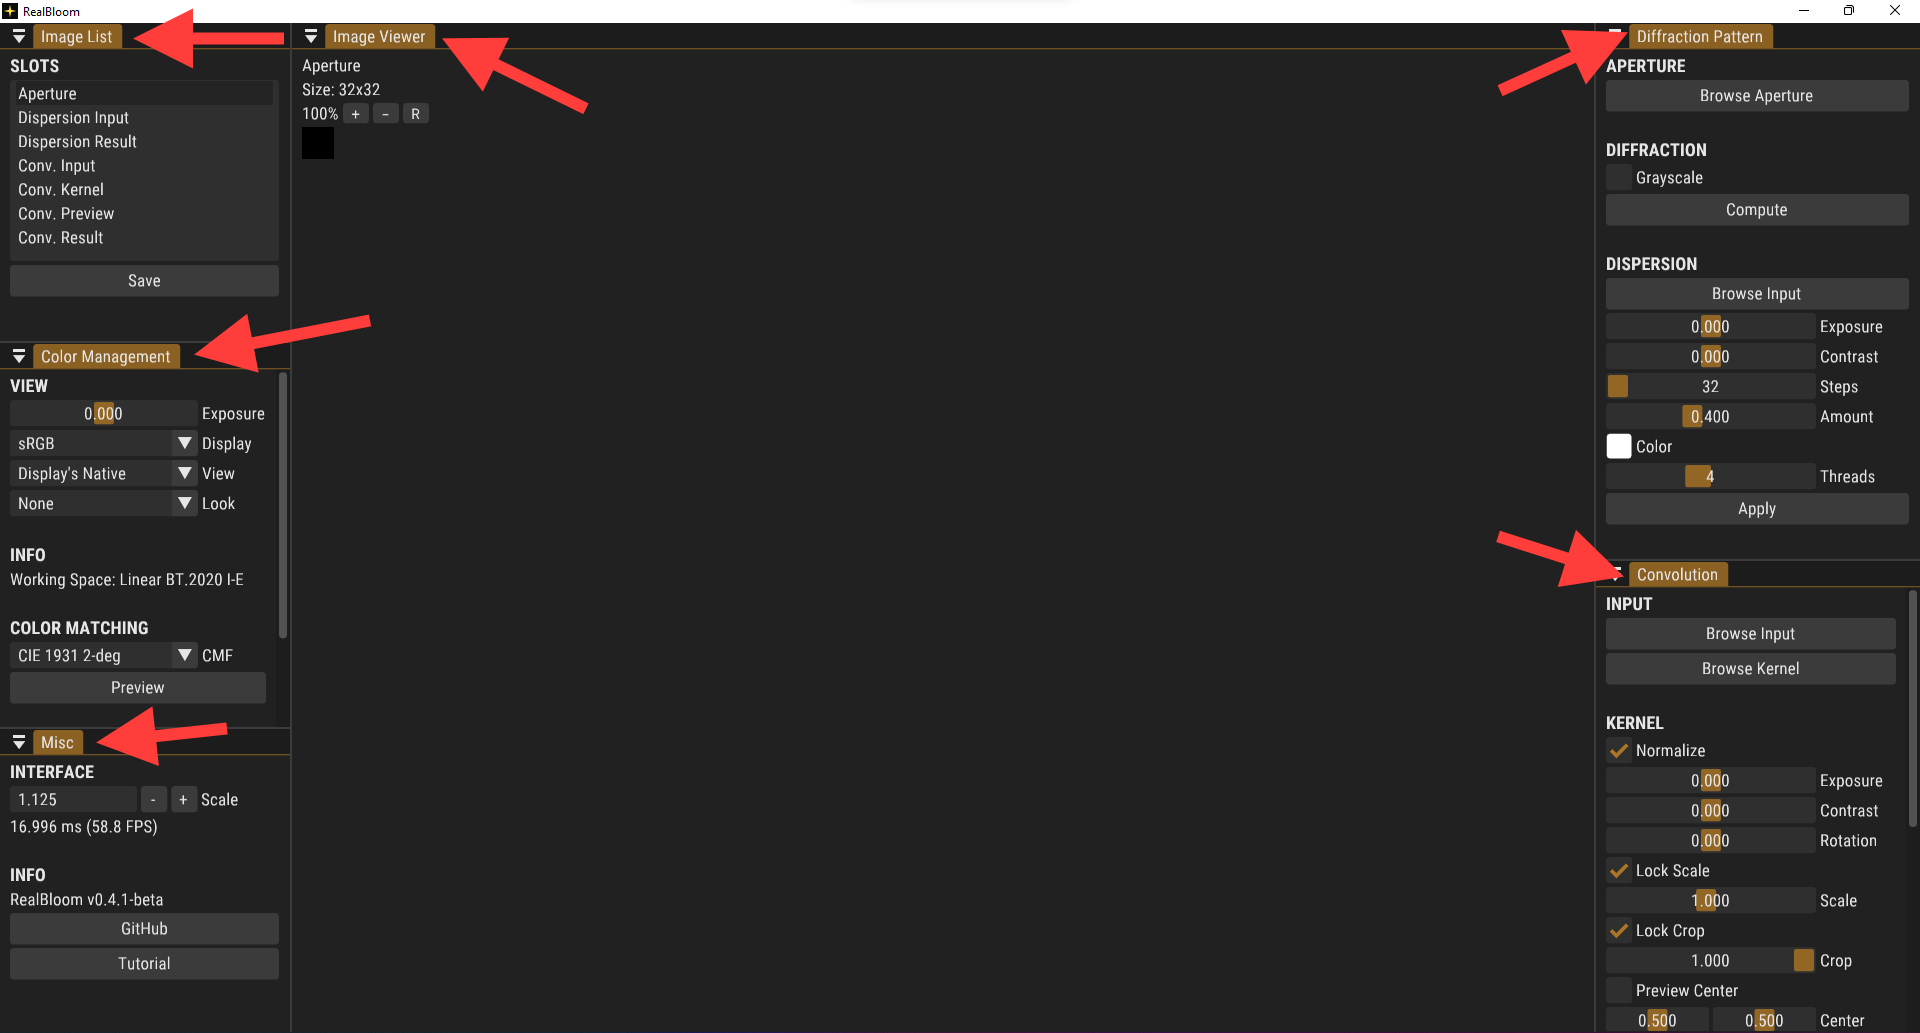
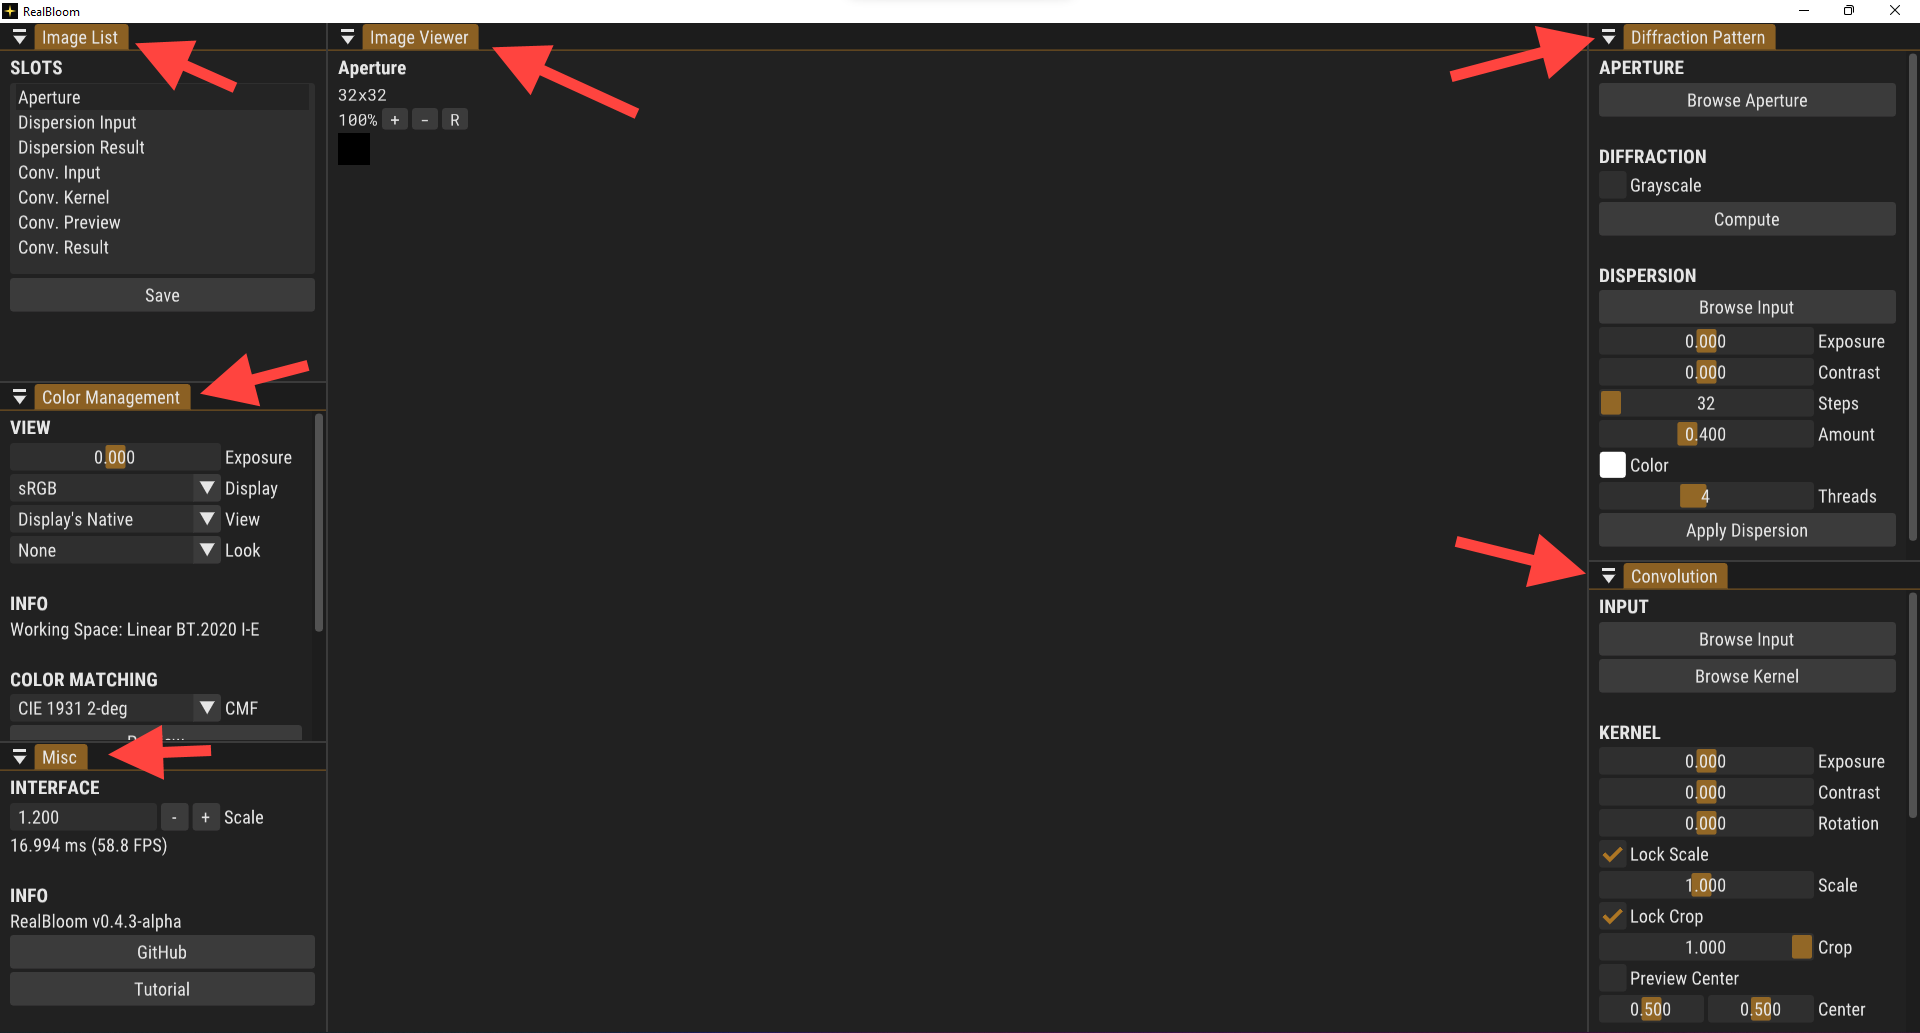
updated images, bug fix in Convolution and Dispersion: values lower than epsilon are not clamped anymore

Changed region(s): [[0.0, 0.0, 0.3438, 0.9913], [0.75, 0.031, 1.0, 1.0], [0.9062, 0.7125, 1.0, 1.0]]

diff --git a/RealBloomCPP/src/RealBloom/Convolution.cpp b/RealBloomCPP/src/RealBloom/Convolution.cpp
@@ -281,14 +281,17 @@ namespace RealBloom
                     croppedBuffer[redIndex + 1] /= maxV;
                     croppedBuffer[redIndex + 2] /= maxV;
 
-                    // Calculate contrast for the grayscale value
+                    // Calculate the grayscale value
                     float grayscale = rgbToGrayscale(croppedBuffer[redIndex + 0], croppedBuffer[redIndex + 1], croppedBuffer[redIndex + 2]);
-                    float mul = kernelExpMul * maxV * (contrastCurve(grayscale, kernelContrast) / fmaxf(grayscale, EPSILON));
 
                     // Apply contrast and de-normalize
-                    croppedBuffer[redIndex + 0] *= mul;
-                    croppedBuffer[redIndex + 1] *= mul;
-                    croppedBuffer[redIndex + 2] *= mul;
+                    if (grayscale > 0.0f)
+                    {
+                        float mul = kernelExpMul * maxV * (contrastCurve(grayscale, kernelContrast) / grayscale);
+                        croppedBuffer[redIndex + 0] *= mul;
+                        croppedBuffer[redIndex + 1] *= mul;
+                        croppedBuffer[redIndex + 2] *= mul;
+                    }
                 }
             }
         }

diff --git a/RealBloomCPP/src/RealBloom/Dispersion.cpp b/RealBloomCPP/src/RealBloom/Dispersion.cpp
@@ -120,14 +120,17 @@ namespace RealBloom
                     inputBuffer[redIndex + 1] /= maxV;
                     inputBuffer[redIndex + 2] /= maxV;
 
-                    // Calculate contrast for the grayscale value
+                    // Calculate the grayscale value
                     float grayscale = rgbToGrayscale(inputBuffer[redIndex + 0], inputBuffer[redIndex + 1], inputBuffer[redIndex + 2]);
-                    float mul = expMul * maxV * (contrastCurve(grayscale, contrast) / fmaxf(grayscale, EPSILON));
 
                     // Apply contrast and de-normalize
-                    inputBuffer[redIndex + 0] *= mul;
-                    inputBuffer[redIndex + 1] *= mul;
-                    inputBuffer[redIndex + 2] *= mul;
+                    if (grayscale > 0.0f)
+                    {
+                        float mul = expMul * maxV * (contrastCurve(grayscale, contrast) / grayscale);
+                        inputBuffer[redIndex + 0] *= mul;
+                        inputBuffer[redIndex + 1] *= mul;
+                        inputBuffer[redIndex + 2] *= mul;
+                    }
                 }
             }
         }
